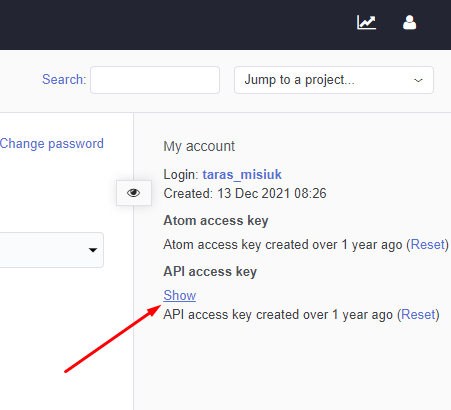
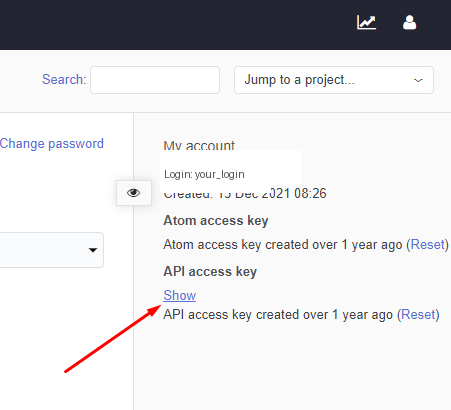
chore: scrub work identifiers from help images and examples
Black out the work email, Jira site and Redmine login in the settings
and import help screenshots, use a neutral task key in the TXT example,
keep the proxy host out of docs, and shrink the 860 KB favicon to 64px.

Changed region(s): [[0.3415, 0.4098, 0.6208, 0.4683]]

diff --git a/react-app/src/components/GenerateCards/Form/RadioGroup.jsx b/react-app/src/components/GenerateCards/Form/RadioGroup.jsx
@@ -100,10 +100,10 @@ const radioItem = [
             <pre />
             1. Daily meeting 0.5h blb
             <pre />
-            2. AFS-616: Disable focus style when click on active. Adjust hover
+            2. ABC-101: Disable focus style when click on active. Adjust hover
             for disabled buttons 3h
             <pre />
-            3. AFS-616: Resolve problem with close overlay click modal on dev
+            3. ABC-101: Resolve problem with close overlay click modal on dev
             env 1h
             <pre />
             <Text fontWeight={600} mt={2}>

diff --git a/docs/backend-worklog-errors.md b/docs/backend-worklog-errors.md
@@ -71,4 +71,4 @@ pre-change checkout.
 
 Frontend: https://redmine-scheduler-app.web.app/
 
-Backend: https://rest--github--jjfz5dbqtvkd.code.run
+Backend: the production proxy (host kept out of the repo)
